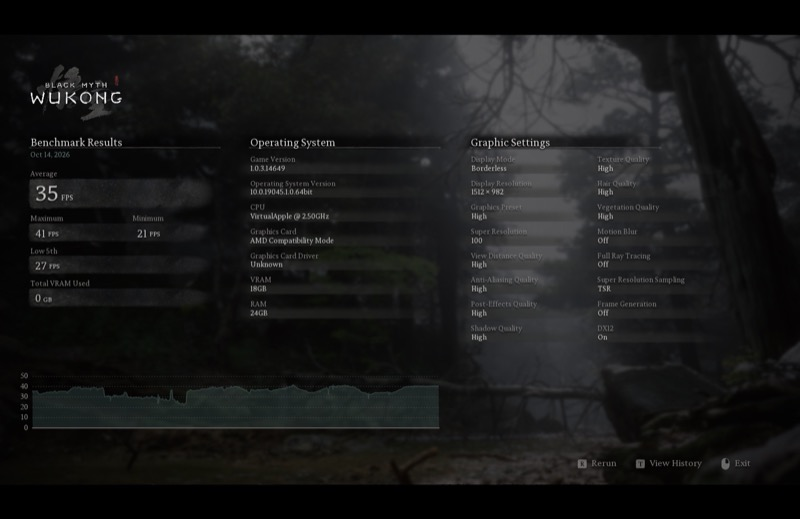
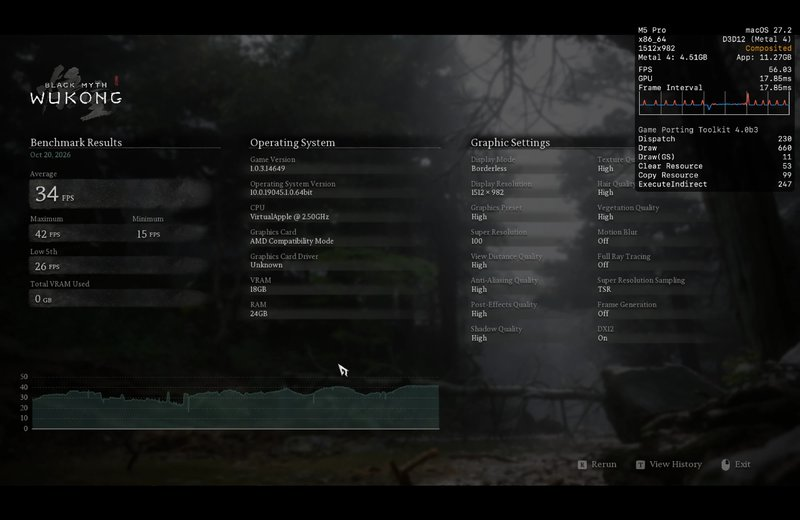
readme: God of War Ragnarok against D3DMetal 4.0 beta 3 with both pictures, Wukong's D3DMetal result from 4.0 beta 3, CrossOver's folder install, and what comes next for Direct3D 12; install.sh copies a release's empty folder without failing

diff --git a/README.md b/README.md
@@ -8,16 +8,18 @@ This is a pre-release. Expect games that break, and please report them.
 
 | | Mullion | D3DMetal |
 |---|---|---|
-| Black Myth: Wukong benchmark, High preset, 1512 × 982, TSR at 100%, no frame generation | 28 FPS | 35 FPS |
+| Black Myth: Wukong benchmark, High preset, 1512 × 982, TSR at 100%, no frame generation | 28 FPS | 34 FPS (D3DMetal 4.0 beta 3) |
+| God of War Ragnarök, High preset, 1512 × 982, no vsync, where a save starts | 26 to 28 FPS, 35 ms of GPU time a frame | 29 to 40 FPS, 22 to 25 ms of GPU time a frame (D3DMetal 4.0 beta 3) |
 | 3DMark Fire Strike | 7003 | |
 
-Both columns were measured on the same Mac. Time Spy's graphics tests render correctly, though 3DMark does not report a score for them yet. Steel Nomad does not start yet.
+Both columns were measured on the same Mac. The God of War numbers are premature: they come from screenshots taken while the game was still compiling shaders, not from a benchmark. Time Spy's graphics tests render correctly, though 3DMark does not report a score for them yet. Steel Nomad does not start yet.
 
 | Mullion | D3DMetal |
 |---|---|
 | ![Black Myth: Wukong benchmark result on Mullion](docs/wukong-mullion.jpg) | ![The same benchmark on D3DMetal](docs/wukong-d3dmetal.jpg) |
+| ![God of War Ragnarök on Mullion](docs/gow-mullion.jpg) | ![The same place on D3DMetal](docs/gow-d3dmetal.jpg) |
 
-Direct3D 12 is supported at feature level 12_0 with shader models up to 6.6, including ray tracing at tier 1.1, mesh and amplification shaders, tessellation, geometry shaders, stream output, sampler feedback, reserved resources, pipeline libraries and planar video formats. Direct3D 10 and 11 are supported at feature level 11_1.
+Direct3D 12 is supported at feature level 12_0 with shader models up to 6.6, including ray tracing at tier 1.1, mesh and amplification shaders, tessellation, geometry shaders, stream output, sampler feedback, reserved resources, pipeline libraries and planar video formats. Direct3D 10 and 11 are supported at feature level 11_1. Next for Direct3D 12 are shader model 6.7, D3D11On12, a Metal 4 backend, and more work on performance and reliability.
 
 ## Requirements
 
@@ -31,6 +33,8 @@ Direct3D 12 is supported at feature level 12_0 with shader models up to 6.6, inc
 2. Run `./install.sh <wine> [prefix ...]`. `<wine>` is the directory that contains `bin/wine`.
 
 The script copies the libraries into `<wine>/lib/wine`, where they replace Wine's Direct3D, and into each prefix named on the command line. Prefixes created later need nothing.
+
+In CrossOver, rename `CrossOver.app/Contents/SharedSupport/CrossOver/lib/dxmt` to `dxmt-original`, put the unpacked release folder in its place under the name `dxmt`, and set the bottle's graphics to DXMT. Replace the whole folder: CrossOver's 32-bit DXMT cannot drive Mullion, and the release's empty `i386-windows` leaves 32-bit games on Wine's own Direct3D. On the first launch macOS blocks `winemetal.so`; allow it under System Settings, Privacy & Security, and start the game again. A CrossOver update brings back its own DXMT.
 
 The archive has the layout of DXMT's builds (`x86_64-windows` and `x86_64-unix`), so tools that install DXMT can install Mullion the same way. To install by hand, copy both directories into `<wine>/lib/wine`, and the DLLs of `x86_64-windows` into `drive_c/windows/system32` of each existing prefix.
 
